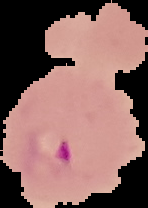
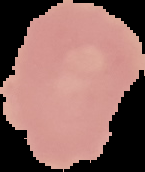
adding grad cam image

diff --git a/app.py b/app.py
@@ -79,8 +79,11 @@ def display_gradcam(img_path, heatmap, cam_path="cam.jpg", alpha=0.4):
     heatmap = tf.maximum(heatmap, 0)  # Ensure no negative values in heatmap
     heatmap = heatmap / tf.reduce_max(heatmap)  # Normalize heatmap to [0, 1] range
 
-    # Convert heatmap to RGB
-    heatmap = tf.image.grayscale_to_rgb(tf.expand_dims(heatmap, axis=-1))
+    # Apply a colormap to the heatmap (e.g., 'viridis', 'plasma', etc.)
+    heatmap = plt.cm.plasma(heatmap)[:, :, :3]  # Use only RGB channels (drop alpha)
+
+    # Convert the heatmap to a tensor
+    heatmap = tf.convert_to_tensor(heatmap)
 
     # Resize heatmap to match image size
     heatmap = tf.image.resize(heatmap, (img.shape[0], img.shape[1]))
@@ -91,11 +94,16 @@ def display_gradcam(img_path, heatmap, cam_path="cam.jpg", alpha=0.4):
     # Convert the superimposed image to uint8
     superimposed_img = tf.image.convert_image_dtype(superimposed_img, dtype=tf.uint8)
 
-    # Save and display the image
+    # Convert the tensor to a PIL image
     superimposed_img = Image.fromarray(superimposed_img.numpy())
+
+    # Enhance the brightness of the image
+    enhancer = ImageEnhance.Brightness(superimposed_img)
+    superimposed_img = enhancer.enhance(1.5)  # Increase the brightness (1.0 is original, >1.0 is brighter)
+
+    # Save and display the image
     superimposed_img.save(cam_path)
     st.image(superimposed_img, caption='Grad-CAM Image', use_column_width=True)
-
 
 # Function to make predictions
 def predict_malaria(img_path):
